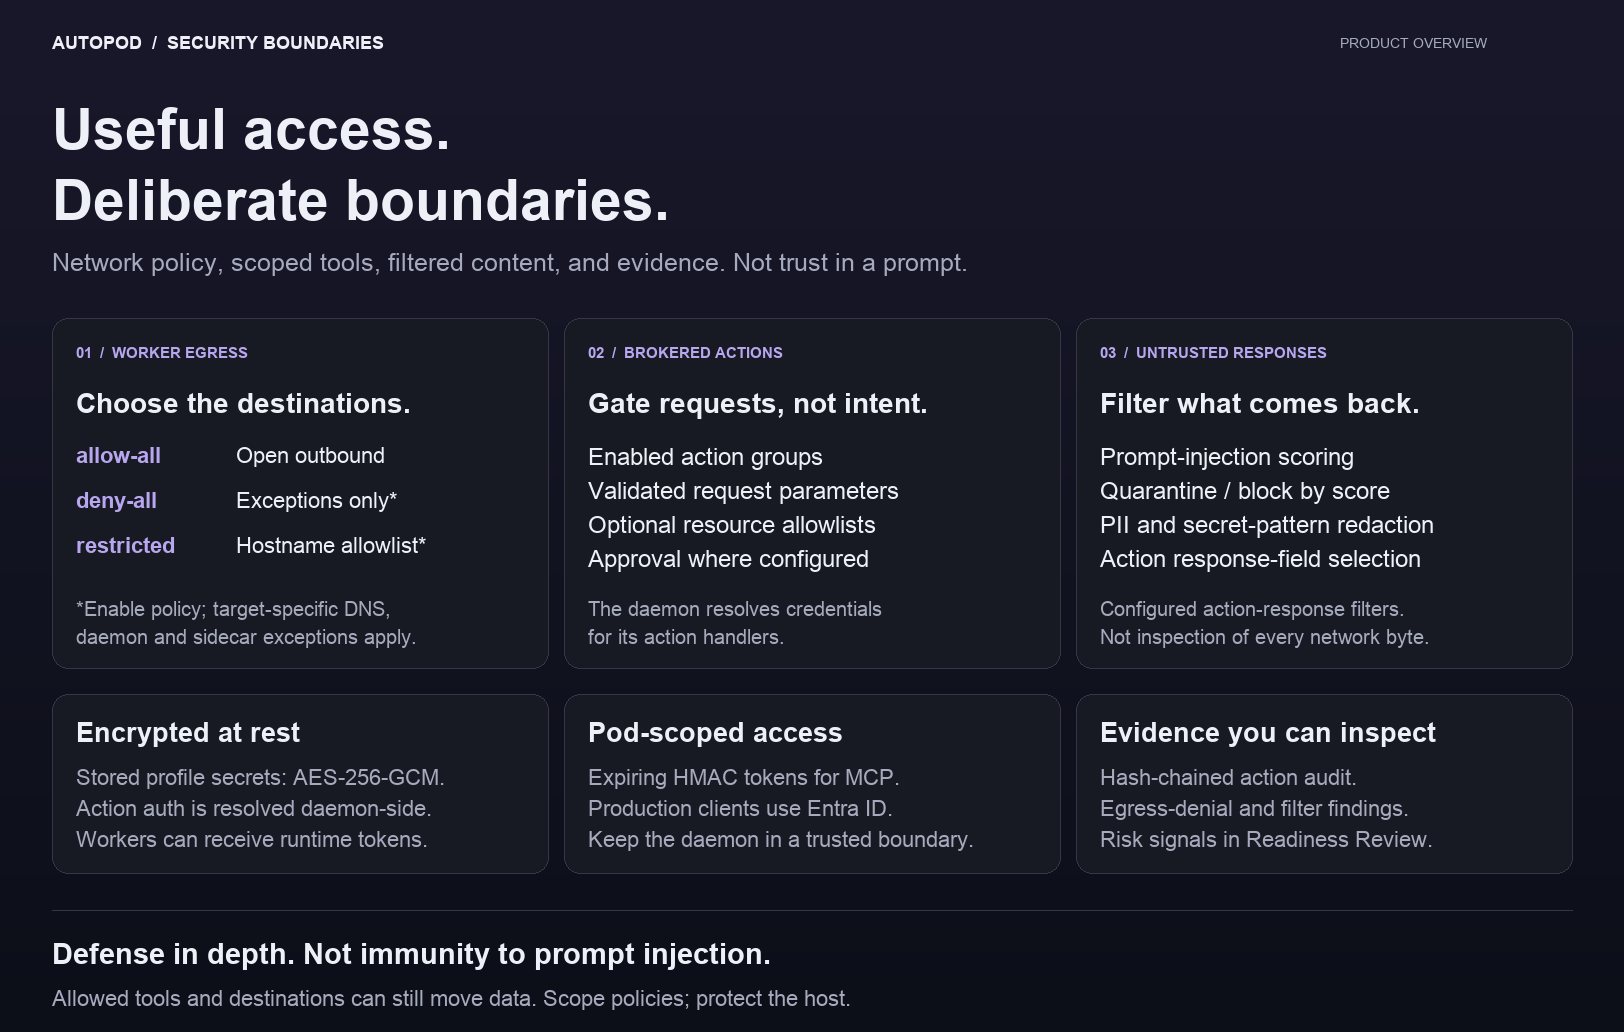
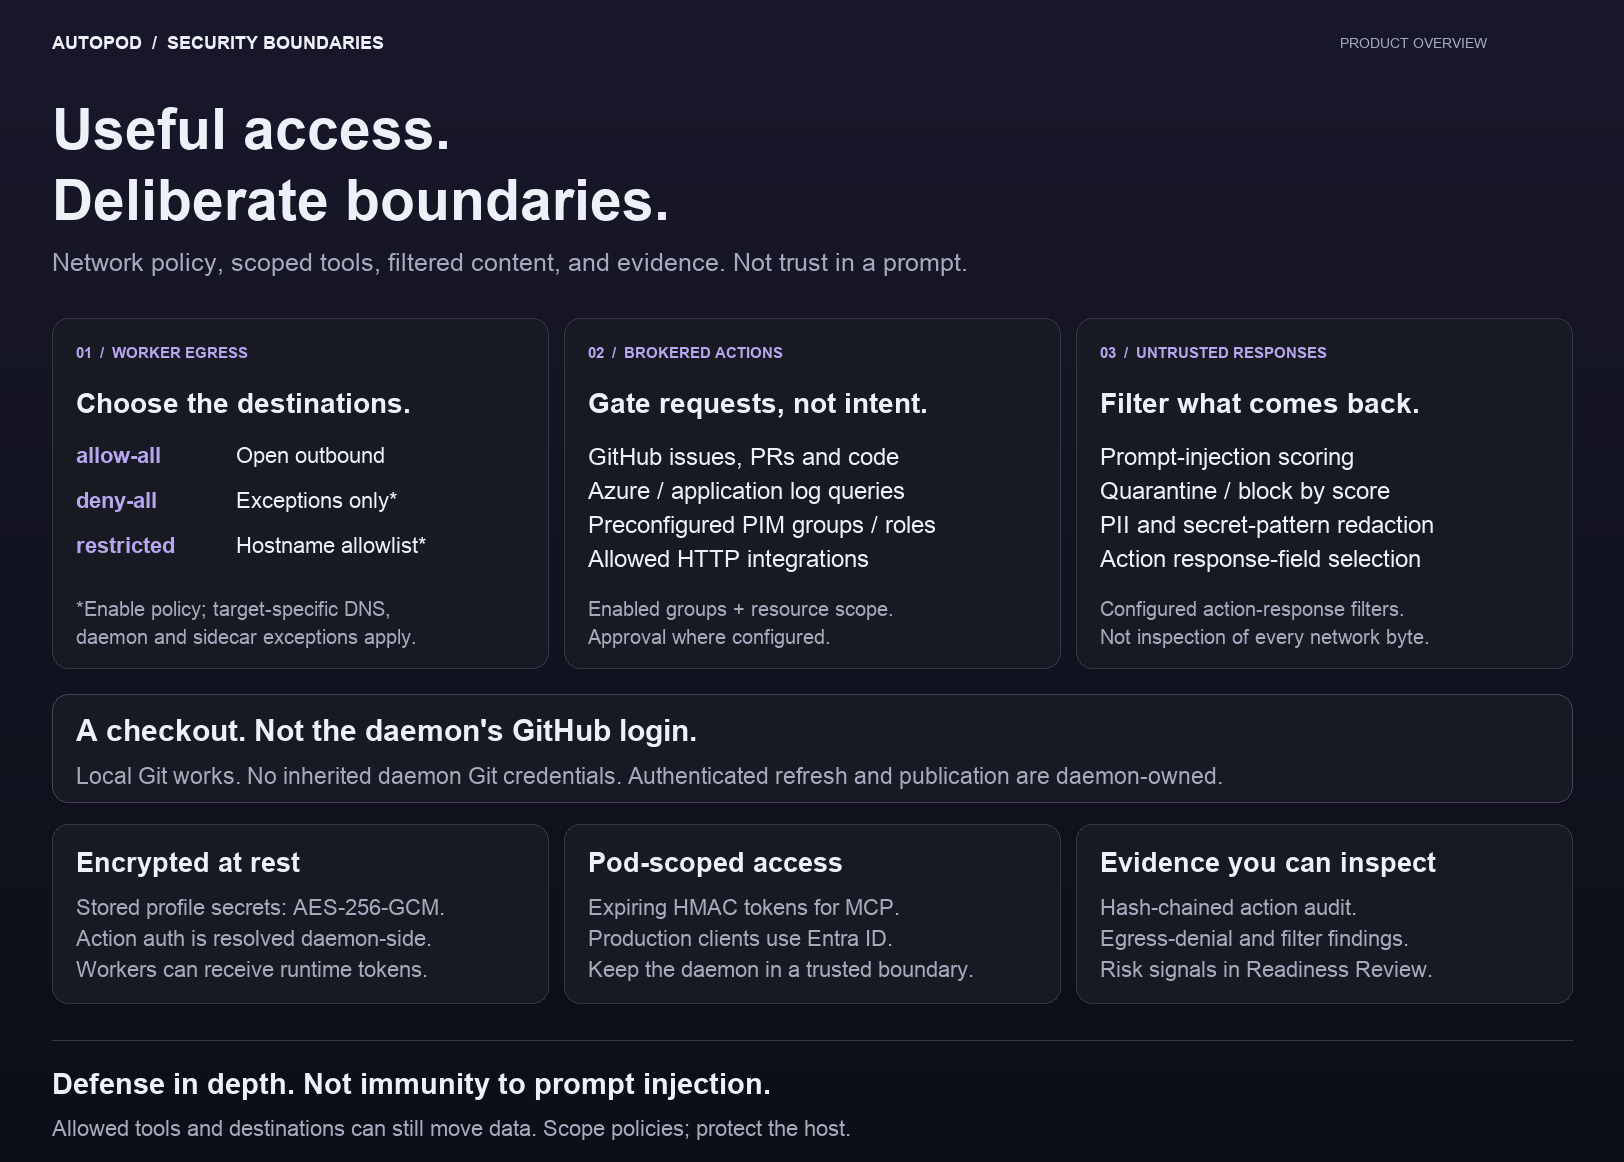
docs: explain pod source isolation and allowed action requests

diff --git a/assets/readme/security.py b/assets/readme/security.py
@@ -11,7 +11,7 @@ from pathlib import Path
 from PIL import Image, ImageDraw, ImageFont
 
 OUTPUT = Path(__file__).resolve().parent / "security.png"
-WIDTH, HEIGHT = 1624, 1032
+WIDTH, HEIGHT = 1624, 1162
 INK, MUTED, ACCENT = "#eef0f8", "#a6aabd", "#b8a6ef"
 FONT = "/System/Library/Fonts/Supplemental/Arial.ttf"
 BOLD = "/System/Library/Fonts/Supplemental/Arial Bold.ttf"
@@ -59,13 +59,18 @@ text(76, 597, "*Enable policy; target-specific DNS,\ndaemon and sidecar exceptio
 
 text(588, 344, "02  /  BROKERED ACTIONS", 15, ACCENT, True, max_width=448)
 text(588, 387, "Gate requests, not intent.", 28, bold=True, max_width=448)
-text(588, 443, "Enabled action groups\nValidated request parameters\nOptional resource allowlists\nApproval where configured", 24, max_width=448)
-text(588, 597, "The daemon resolves credentials\nfor its action handlers.", 20, MUTED, max_width=448)
+text(588, 443, "GitHub issues, PRs and code\nAzure / application log queries\nPreconfigured PIM groups / roles\nAllowed HTTP integrations", 24, max_width=448)
+text(588, 597, "Enabled groups + resource scope.\nApproval where configured.", 20, MUTED, max_width=448)
 
 text(1100, 344, "03  /  UNTRUSTED RESPONSES", 15, ACCENT, True, max_width=448)
 text(1100, 387, "Filter what comes back.", 28, bold=True, max_width=448)
 text(1100, 443, "Prompt-injection scoring\nQuarantine / block by score\nPII and secret-pattern redaction\nAction response-field selection", 24, max_width=448)
 text(1100, 597, "Configured action-response filters.\nNot inspection of every network byte.", 20, MUTED, max_width=448)
+
+draw.rounded_rectangle((52, 694, 1572, 802), 16,
+                       fill="#171923", outline="#484056", width=1)
+text(76, 713, "A checkout. Not the daemon's GitHub login.", 30, bold=True)
+text(76, 763, "Local Git works. No inherited daemon Git credentials. Authenticated refresh and publication are daemon-owned.", 23, MUTED)
 
 supports = [
     (52, "Encrypted at rest", "Stored profile secrets: AES-256-GCM.\nAction auth is resolved daemon-side.\nWorkers can receive runtime tokens."),
@@ -73,12 +78,12 @@ supports = [
     (1076, "Evidence you can inspect", "Hash-chained action audit.\nEgress-denial and filter findings.\nRisk signals in Readiness Review."),
 ]
 for x, title, body in supports:
-    card(x, 694, 179)
-    text(x + 24, 717, title, 27, bold=True, max_width=448)
-    text(x + 24, 765, body, 22, MUTED, max_width=448)
+    card(x, 824, 179)
+    text(x + 24, 847, title, 27, bold=True, max_width=448)
+    text(x + 24, 895, body, 22, MUTED, max_width=448)
 
-draw.line((52, 910, 1572, 910), fill="#383546", width=1)
-text(52, 937, "Defense in depth. Not immunity to prompt injection.", 29, bold=True)
-text(52, 986, "Allowed tools and destinations can still move data. Scope policies; protect the host.", 22, MUTED)
+draw.line((52, 1040, 1572, 1040), fill="#383546", width=1)
+text(52, 1067, "Defense in depth. Not immunity to prompt injection.", 29, bold=True)
+text(52, 1116, "Allowed tools and destinations can still move data. Scope policies; protect the host.", 22, MUTED)
 image.save(OUTPUT, optimize=True)
 print(f"{OUTPUT.name}: {WIDTH}×{HEIGHT}, {OUTPUT.stat().st_size / 1024:.0f} KiB")

diff --git a/docs/security-overview.md b/docs/security-overview.md
@@ -46,6 +46,27 @@ policy, not Docker's iptables/HAProxy implementation. Check the
 [sandbox guide](azure-container-apps-sandboxes.md) for that target's requirements
 and limitations. Don't infer identical DNS, sidecar, or transport behavior.
 
+## A checkout, not the daemon's source-account identity
+
+The worker gets materialized repository contents so it can read, edit, test,
+and commit locally. It does **not automatically inherit the daemon's GitHub
+login or source-service credentials**. Authenticated remote refresh, branch
+publication, and PR delivery belong to the daemon under the admitted source
+and output policy, not to the coding agent's shell.
+
+Direct GitHub/ADO credential injection is rejected by the source-credential
+boundary. Service-credential enrollment also rejects known source credentials
+and source-service origins rather than letting them be repackaged as tool secrets.
+That check is not a proof of every enrolled token's provider scopes: operators
+must still scope model, registry, and service credentials carefully.
+
+This is deliberately **not** a claim that Git is absent or that the agent cannot
+read the repository. Local Git remains useful for diffs, history, and commits.
+Nor is missing private-repository authentication a universal network block:
+public Git endpoints may still be reachable if the effective egress policy and
+available credentials permit them. Source-account authority, network reachability,
+and local checkout access are separate boundaries.
+
 ## Brokered tools, not ambient authority
 
 The action control plane brokers configured GitHub, Azure DevOps, Azure, and
@@ -53,6 +74,25 @@ HTTP operations through daemon handlers. It checks enabled action groups,
 request parameters, configured resource allowlists, and applicable approval
 requirements before dispatch. Limits and approvals must be configured for the
 actions you expose; an allowed tool is still a capability to use carefully.
+
+The worker requests these capabilities through the `execute_action` MCP tool,
+rather than receiving unrestricted access to the daemon's accounts. Examples of
+configured action groups include:
+
+| Capability | Examples | Boundary |
+| --- | --- | --- |
+| GitHub context | Read issues, PRs, comments, diffs, and files; search issues/code | Only enabled actions, with resource restrictions where configured. This is not an arbitrary Git credential. |
+| Azure DevOps context | Read work items, PR threads, changes, and files | Selected action groups and configured organization/project/repository scope. |
+| Azure/application logs | Query Log Analytics, Application Insights, or container logs | The daemon performs the configured query with its handler identity. |
+| Azure PIM | Request activation/deactivation of declared groups or RBAC roles | The pod bridge checks preconfigured group or exact role/scope choices; activation still depends on eligibility and tenant policy. |
+| HTTP integrations | Call configured API operations | Configured endpoints, parameter handling, destination checks, and applicable approvals. |
+
+For example, an agent can request “read this PR,” “query these application logs,”
+or “activate this declared PIM role.” It does not choose a new privilege set
+just because a prompt asks for it. PIM grant choices and durations come from the
+configured pod/profile; don't describe this as permission to elevate to any role.
+Action approval is required **where configured**, not an assertion that every
+read-only operation prompts a human. See [action configuration](reference/profiles.md#action-control-plane).
 
 The generic HTTP action handler validates destinations and uses a DNS-pinned
 transport to reduce SSRF and rebinding risk. This protection is for that handler,
@@ -142,14 +182,16 @@ determine how evidence affects the decision to proceed.
 
 ## Implementation references
 
-This overview was checked against the application source at `0c78989d`; it is a
+This overview was checked against the application source at `8d71b9d2`; it is a
 code/documentation review, not a penetration-test report or live enforcement test.
 
 | Boundary | Source |
 | --- | --- |
 | Docker egress and allowlist resolution | [Network manager](../packages/daemon/src/containers/docker-network-manager.ts), [provisioning gate](../packages/daemon/src/pods/provisioning-container.ts), [firewall startup handling](../packages/daemon/src/containers/docker-container-manager.ts) |
 | Sandbox egress | [Sandbox manager](../packages/daemon/src/containers/sandbox-container-manager.ts) |
+| Source-account separation | [Daemon GitHub identity](../packages/daemon/src/github/daemon-github-auth.ts), [blocked source injection](../packages/daemon/src/pods/operator-tools.ts), [service-credential boundary](../packages/daemon/src/configuration/service-credential-boundary.ts), [worker Git instructions](../packages/daemon/src/pods/system-instructions-generator.ts) |
 | Action permissions and response processing | [Action engine](../packages/daemon/src/actions/action-engine.ts), [field selection](../packages/daemon/src/actions/handlers/handler.ts) |
+| PIM request restrictions | [Pod bridge](../packages/daemon/src/pods/pod-bridge-impl.ts), [PIM action definitions](../packages/daemon/src/actions/defaults/azure-pim.json), [PIM handler](../packages/daemon/src/actions/handlers/azure-pim-handler.ts) |
 | Generic HTTP destination handling | [HTTP handler](../packages/daemon/src/actions/generic-http-handler.ts), [pinned transport](../packages/daemon/src/actions/pinned-http-transport.ts) |
 | Remote MCP proxy and actual wiring | [Proxy handler](../packages/daemon/src/api/mcp-proxy-handler.ts), [server registration](../packages/daemon/src/api/server.ts) |
 | Content filters | [Processor](../packages/shared/src/sanitize/processor.ts), [quarantine](../packages/shared/src/sanitize/quarantine.ts) |

diff --git a/assets/readme/README.md b/assets/readme/README.md
@@ -55,6 +55,10 @@ alignment, contrast, arrows, and footer text before publishing.
 `security.png` matches the same visual system. It distinguishes enabled worker
 egress policy, daemon action permissions, and configured action-response filters, then
 shows stored-credential protection, pod identity, and audit/readiness evidence.
+The checkout/account band explicitly keeps local Git usable without implying
+inheritance of the daemon's source-service identity. The action card names
+GitHub context, log queries, preconfigured PIM activation, and HTTP integrations;
+these are policy-gated requests, not arbitrary account access.
 It is not a live enforcement test, certification, or promise of complete
 prompt-injection prevention. The source-checked [security guide](../../docs/security-overview.md)
 records exceptions, limitations, implementation links, and the inspected revision.
@@ -109,7 +113,7 @@ durations are time-relative and need not be byte-identical on regeneration.
 - Check that labels are readable, no private information is shown, and the
   sample-data disclosure remains visible.
 - Keep total published media below 3 MiB. PNGs are 1624×1044 (desktop),
-  1280×800 (readiness), 1624×1256 (features), and 1624×1032 (security);
+  1280×800 (readiness), 1624×1256 (features), and 1624×1162 (security);
   the GIF is 1280×800, 20 frames,
   and approximately 14.6 seconds per loop.
 - Keep a static alternative in the README and meaningful image alt text.

diff --git a/docs/reference/profiles.md b/docs/reference/profiles.md
@@ -296,8 +296,10 @@ make its GitHub CLI state available inside a container.
 
 Use a dedicated, lower-privilege development account and restrict its repository permissions.
 Autopod resolves its credential explicitly for host Git, PRs, brokered GitHub actions, issue
-watchers, private reference repositories, warm images, and requested workspace injection; it does
-not enable ambient Git credential helpers or automatically inject the credential into pods.
+watchers, private reference repositories, and warm images. It does not enable
+ambient Git credential helpers or automatically inject the credential into pods.
+Direct GitHub/ADO source-credential injection is disabled; workers can still use
+local Git on their supplied checkout. See [source-account separation](../security-overview.md#a-checkout-not-the-daemons-source-account-identity).
 Legacy profile `githubPat` fields remain accepted and encrypted for rolling-client compatibility
 and rollback, but are redacted, ignored operationally, and never mask missing daemon `gh` auth.
 `COPILOT_GITHUB_TOKEN` remains a separate model-provider credential.

diff --git a/README.md b/README.md
@@ -42,7 +42,7 @@ A prompt is not a permission boundary. Autopod puts controls around the worker,
 the tools it can call, and the external content those tools return. Repository
 checkpoints add secret detection and optional ML-backed PII/injection scanning.
 
-[![Security boundaries: configurable egress, brokered action permissions, prompt-injection quarantine and PII redaction, encrypted stored credentials, pod-scoped tokens, and verifiable action audit.](assets/readme/security.png)](assets/readme/security.png)
+[![Security boundaries: configurable egress; allowed GitHub, logs, PIM and HTTP actions; a local Git checkout without automatic daemon source-token injection; action-response filtering, encrypted stored credentials, pod-scoped tokens, and verifiable audit.](assets/readme/security.png)](assets/readme/security.png)
 
 **Current limit:** default remote-MCP proxy wiring does not enable its response
 filters; the action-response filtering above is a separate path.
